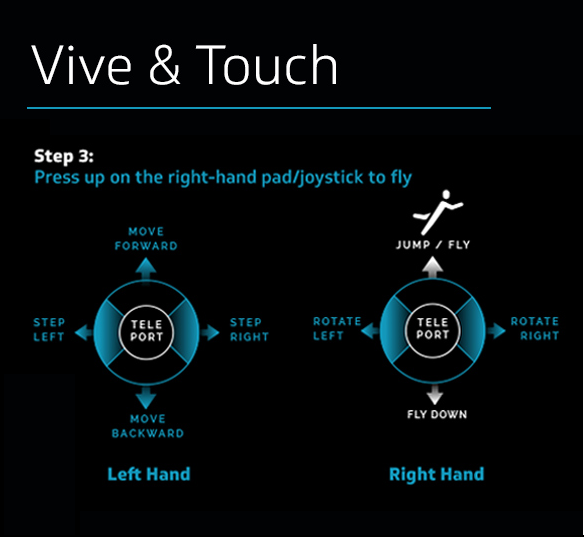
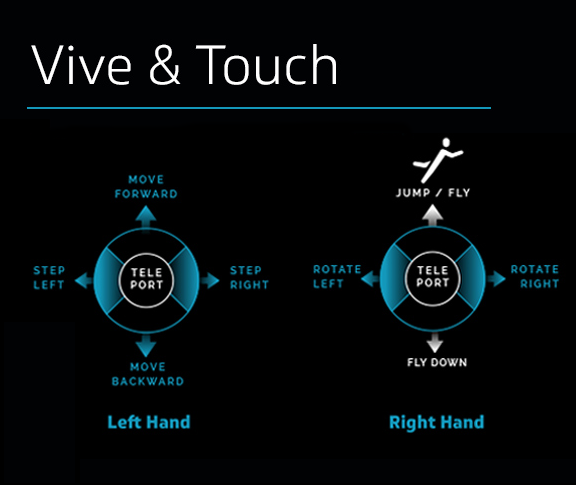
Updating control images and corresponding text

Changed region(s): [[0.0312, 0.2784, 0.9688, 0.8969], [0.0312, 0.0619, 0.8438, 0.2474], [0.6562, 0.8351, 0.8438, 0.8969]]

diff --git a/02.create-and-explore/02.explore-interface/01.basic-controls/docs.md b/02.create-and-explore/02.explore-interface/01.basic-controls/docs.md
@@ -71,11 +71,11 @@ If you're using a gamepad, use the following controls to move around and manipul
 
 ##### Flying
 
-To fly in High Fidelity:
+To fly in High Fidelity with gamepads & controllers:
 
-* **Enable Advanced Movements:** Enable advancements so that you can use your controllers, gamepad, or keyboard to fly. ![](enable-advance.png)
+* **Enable Advanced Movements:** Enable advancements so that you can use your controllers or gamepad to fly. ![](enable-advance.png)
 * **Oculus Touch and Vive:** Use the following controls to fly in High Fidelity if you're using Oculus Touch or HTC Vive controllers. ![](fly-controller.png)
-* **Gamepad and Keyboard:** If you use a gamepad or your keyboard, use the following controls to fly. ![](fly-other.png)
+* **Gamepad and Keyboard:** If you're using a gamepad, use the following controls to fly. ![](fly-other.png)
 
 
 #### Other Shortcuts
